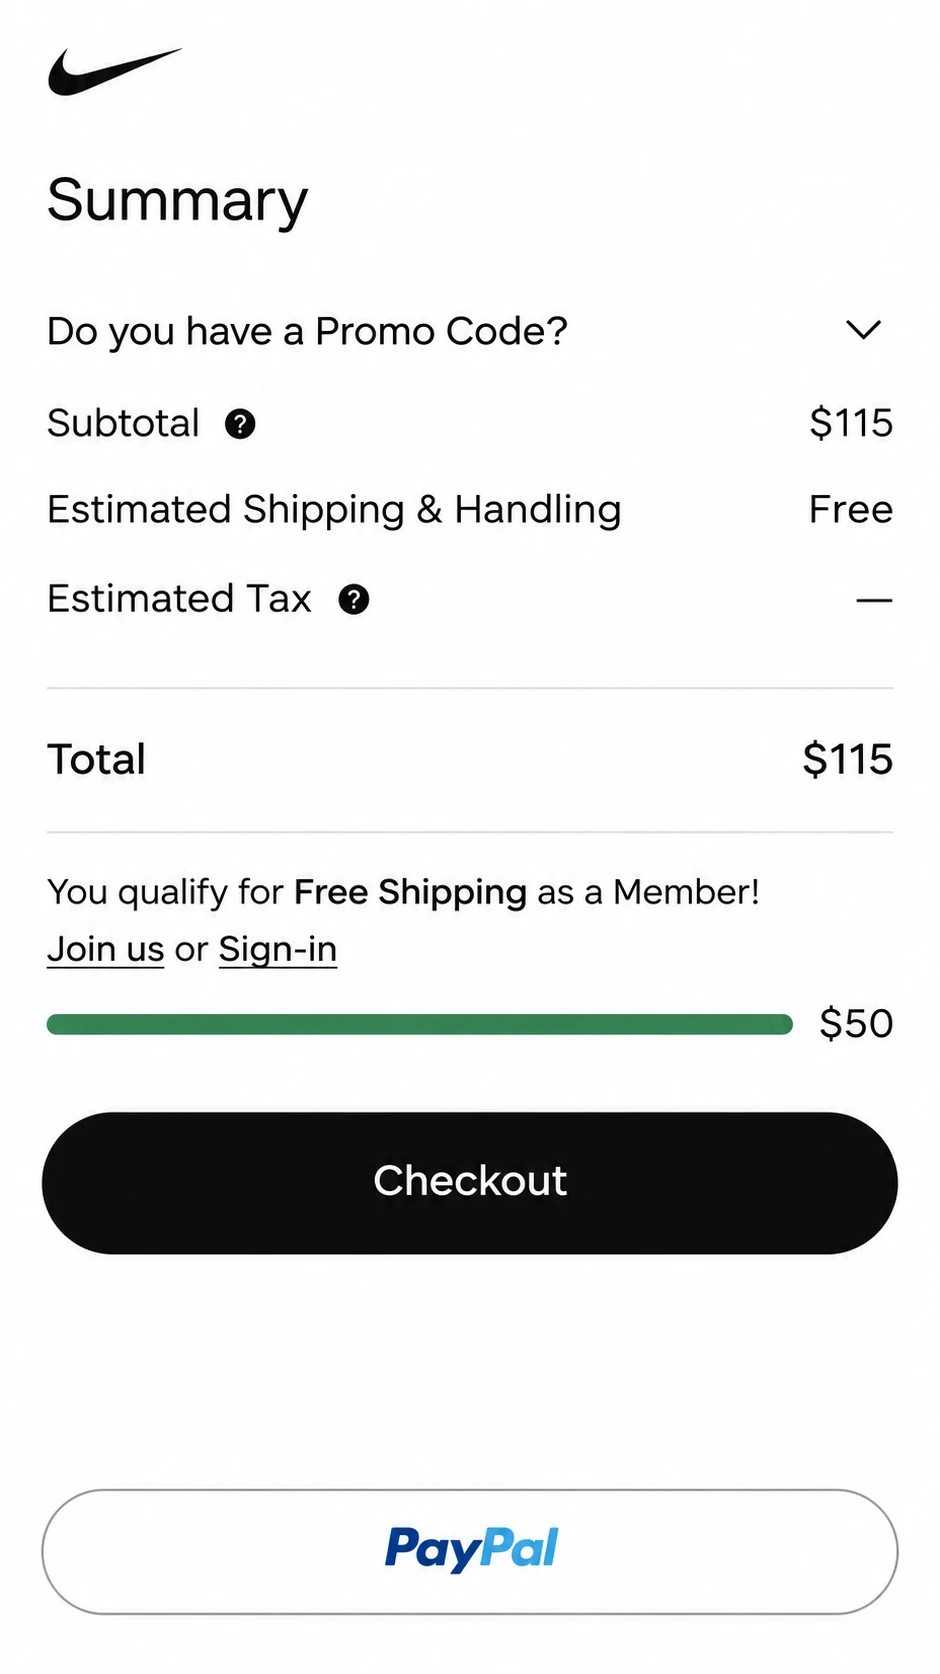
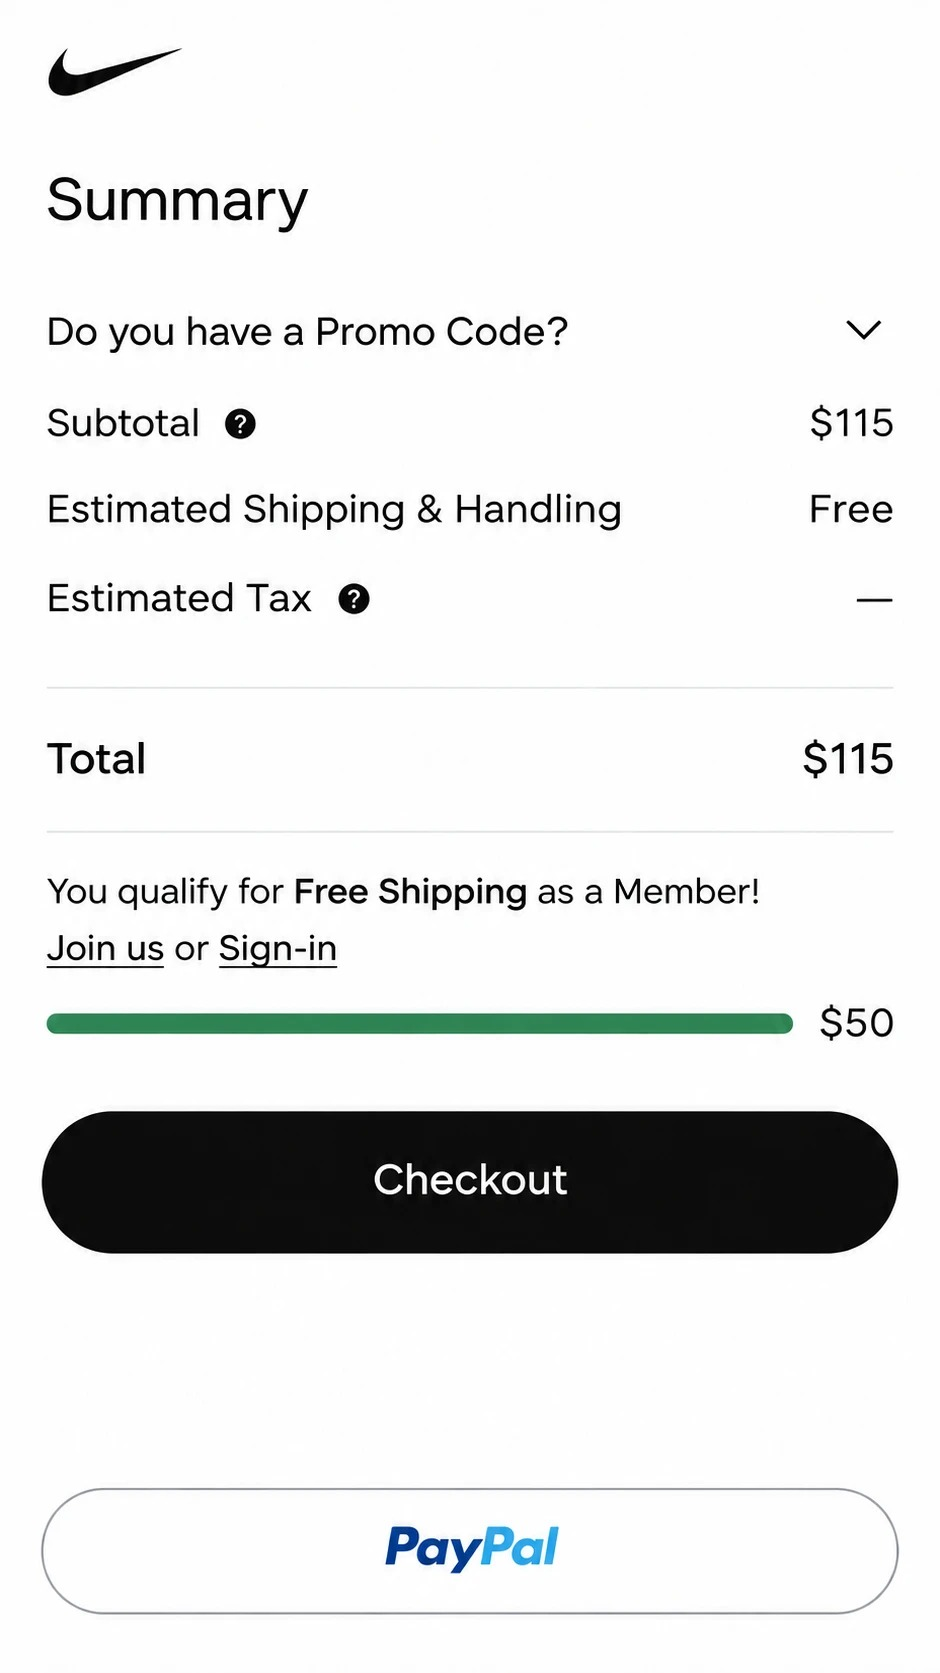
fix(links): walkthrough slide animation (override global no-motion reset), mouse/trackpad/keys, new Nike shots + overlay

diff --git a/src/app/links/demo/walkthrough.tsx b/src/app/links/demo/walkthrough.tsx
@@ -1,6 +1,6 @@
 'use client';
 
-import { useRef, useState, type PointerEvent, type ReactNode } from 'react';
+import { useEffect, useRef, useState, type KeyboardEvent, type PointerEvent, type ReactNode } from 'react';
 import { t, S, T, btn, card, sectionLabel } from '@/lib/ui';
 import { PhoneFrame } from './phone';
 import { HomeScreen, ItemScreen, CheckoutScreen, OrderScreen, ResellScreen } from './screens';
@@ -15,7 +15,9 @@ const SCREENS: { label: string; node: ReactNode }[] = [
   { label: 'Listing the item for resale with the fee and payout shown', node: <ResellScreen /> },
 ];
 
-const OUT_MS = 170;
+// globals.css turns all motion off site-wide (!important). The walkthrough opts back in on purpose, scoped to
+// .vp-slide, and still honours prefers-reduced-motion.
+const OUT_MS = 200;
 const reducedMotion = () => typeof window !== 'undefined' && window.matchMedia?.('(prefers-reduced-motion: reduce)').matches;
 
 export function Walkthrough() {
@@ -25,6 +27,9 @@ export function Walkthrough() {
   const [dragging, setDragging] = useState(false);
   const [leaving, setLeaving] = useState<1 | -1 | 0>(0);   // slide-out in progress (1 = going to next)
   const gesture = useRef<{ x: number; y: number; locked: boolean } | null>(null);
+  const wrapRef = useRef<HTMLDivElement>(null);
+  const wheel = useRef({ acc: 0, timer: 0, lockedUntil: 0 });
+  const latest = useRef({ i: 0, leaving: 0 as 1 | -1 | 0, commit: (_n: number) => {} });
   const last = WALKTHROUGH.length - 1;
   const step = WALKTHROUGH[i];
 
@@ -41,9 +46,11 @@ export function Walkthrough() {
     window.setTimeout(() => { setLeaving(0); setDx(0); show(n); }, OUT_MS);
   }
 
-  // Touch and pen only: a mouse drag would fight text selection. Vertical drags still scroll the phone.
+  latest.current = { i, leaving, commit };
+
+  // Touch, pen and mouse drags. Vertical drags still scroll the phone's home screen.
   const onDown = (e: PointerEvent) => {
-    if (e.pointerType === 'mouse' || leaving) return;
+    if (leaving || (e.pointerType === 'mouse' && e.button !== 0)) return;
     gesture.current = { x: e.clientX, y: e.clientY, locked: false };
   };
   const onMove = (e: PointerEvent) => {
@@ -70,11 +77,36 @@ export function Walkthrough() {
   };
   const onCancel = () => { gesture.current = null; setDragging(false); setDx(0); };
 
+  // Trackpad two-finger sideways scrolls: follow a little, then change step once it passes a threshold.
+  useEffect(() => {
+    const el = wrapRef.current;
+    if (!el) return;
+    const onWheel = (e: WheelEvent) => {
+      if (Math.abs(e.deltaX) <= Math.abs(e.deltaY)) return;
+      e.preventDefault();
+      const w = wheel.current, { i: cur, leaving: busy, commit: go } = latest.current;
+      if (busy || Date.now() < w.lockedUntil) return;
+      w.acc += e.deltaX;
+      const target = w.acc > 0 ? cur + 1 : cur - 1;
+      const blocked = target < 0 || target > WALKTHROUGH.length - 1;
+      setDx(Math.max(-120, Math.min(120, -w.acc * (blocked ? 0.2 : 0.6))));
+      window.clearTimeout(w.timer);
+      w.timer = window.setTimeout(() => { w.acc = 0; setDx(0); }, 140);
+      if (Math.abs(w.acc) > 90 && !blocked) { w.acc = 0; w.lockedUntil = Date.now() + 600; go(target); }
+    };
+    el.addEventListener('wheel', onWheel, { passive: false });
+    return () => el.removeEventListener('wheel', onWheel);
+  }, []);
+
+  const onKey = (e: KeyboardEvent) => {
+    if (e.key === 'ArrowRight') { e.preventDefault(); commit(i + 1); }
+    if (e.key === 'ArrowLeft') { e.preventDefault(); commit(i - 1); }
+  };
+
   const slideStyle = {
     display: 'flex', flexDirection: 'column', gap: S[3], flexShrink: 0,
     transform: leaving ? `translateX(${-leaving * 110}%)` : `translateX(${dx}px)`,
     opacity: leaving ? 0 : 1 - Math.min(Math.abs(dx) / 400, 0.35),
-    transition: dragging ? 'none' : `transform ${OUT_MS}ms ease-out, opacity ${OUT_MS}ms ease-out`,
     userSelect: 'none', willChange: 'transform',
   } as const;
 
@@ -86,10 +118,10 @@ export function Walkthrough() {
         <p style={{ ...t('meta'), color: T.textMuted, margin: 0 }}>{WALKTHROUGH_INTRO.hint}</p>
       </div>
 
-      <style dangerouslySetInnerHTML={{ __html: '@media (prefers-reduced-motion: no-preference){.vp-slide[data-dir="1"]{animation:vp-in-r .26s cubic-bezier(.2,.8,.2,1)}.vp-slide[data-dir="-1"]{animation:vp-in-l .26s cubic-bezier(.2,.8,.2,1)}}@keyframes vp-in-r{from{opacity:0;transform:translateX(70%)}to{opacity:1;transform:none}}@keyframes vp-in-l{from{opacity:0;transform:translateX(-70%)}to{opacity:1;transform:none}}' }} />
-      <div onPointerDown={onDown} onPointerMove={onMove} onPointerUp={onUp} onPointerCancel={onCancel} style={{ touchAction: 'pan-y', width: '100%', display: 'flex', justifyContent: 'center' }}>
+      <style dangerouslySetInnerHTML={{ __html: '@media (prefers-reduced-motion: no-preference){.vp-slide{transition:transform .2s ease-out,opacity .2s ease-out !important}.vp-slide[data-dragging="true"]{transition:none !important}.vp-slide[data-dir="1"]{animation:vp-in-r .3s cubic-bezier(.2,.8,.2,1) !important}.vp-slide[data-dir="-1"]{animation:vp-in-l .3s cubic-bezier(.2,.8,.2,1) !important}}@keyframes vp-in-r{from{opacity:0;transform:translateX(70%)}to{opacity:1;transform:none}}@keyframes vp-in-l{from{opacity:0;transform:translateX(-70%)}to{opacity:1;transform:none}}' }} />
+      <div ref={wrapRef} tabIndex={0} aria-label="Walkthrough. Swipe, drag or use the arrow keys to change step." onKeyDown={onKey} onDragStart={e => e.preventDefault()} onPointerDown={onDown} onPointerMove={onMove} onPointerUp={onUp} onPointerCancel={onCancel} style={{ touchAction: 'pan-y', width: '100%', display: 'flex', justifyContent: 'center', userSelect: 'none', WebkitUserSelect: 'none', cursor: dragging ? 'grabbing' : 'grab', outline: 'none' }}>
         <PhoneFrame label={SCREENS[i].label}>
-          <div key={i} className="vp-slide" data-dir={dir} style={slideStyle}>{SCREENS[i].node}</div>
+          <div key={i} className="vp-slide" data-dir={dir} data-dragging={dragging} style={slideStyle}>{SCREENS[i].node}</div>
         </PhoneFrame>
       </div>
 

diff --git a/src/app/links/demo/page.tsx b/src/app/links/demo/page.tsx
@@ -36,8 +36,8 @@ const MOCKS: Record<string, Mock[]> = {
     { label: 'A finished sale showing what the seller received', node: <SaleScreen /> },
   ],
   pay: [
-    { label: 'A real product page on nike.com with the VisbyPay button under Add to Bag', node: <ShotScreen src="/demo/nike-product.jpg" width={935} height={1683} pill={{ left: 4.71, top: 82.53, width: 90.48, height: 7.61 }} />, flush: true },
-    { label: "nike.com's real bag page with the VisbyPay button under Checkout", node: <ShotScreen src="/demo/nike-checkout.jpg" width={940} height={1674} pill={{ left: 4.36, top: 78.2, width: 91.28, height: 8.06 }} />, flush: true },
+    { label: 'A real product page on nike.com with the VisbyPay button under Add to Bag', node: <ShotScreen src="/demo/nike-product.jpg" width={935} height={1683} pill={{ left: 4.92, top: 82.53, width: 90.16, height: 7.84 }} />, flush: true },
+    { label: "nike.com's real bag page with the VisbyPay button under Checkout", node: <ShotScreen src="/demo/nike-checkout.jpg" width={940} height={1673} pill={{ left: 4.47, top: 77.76, width: 91.06, height: 8.43 }} />, flush: true },
     { label: 'The Visby Pay checkout', node: <PayCheckoutScreen /> },
     { label: 'A confirmation saying the Tally is ready, with Nike as the original minter', node: <PayDoneScreen /> },
   ],
